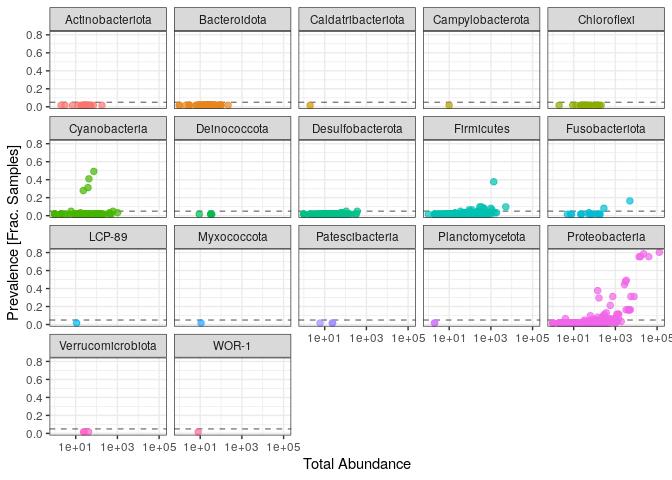
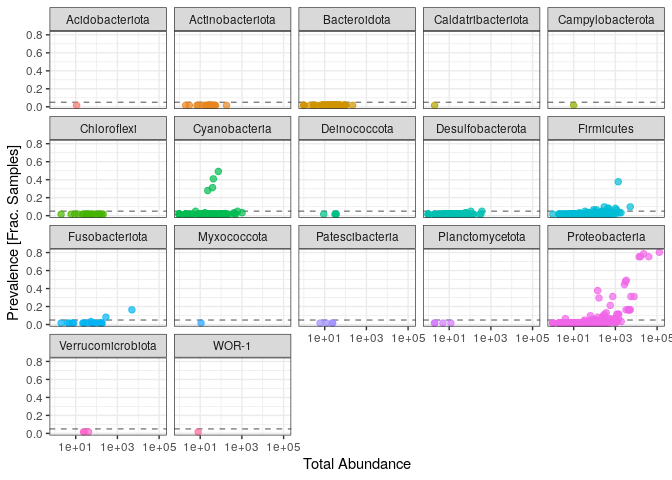
final

diff --git a/CC3r.md b/CC3r.md
@@ -540,7 +540,7 @@ head(taxa.print)
     ## [2,] "Vibrionaceae" "Vibrio"
     ## [3,] "Vibrionaceae" NA      
     ## [4,] "Vibrionaceae" "Vibrio"
-    ## [5,] "Vibrionaceae" NA      
+    ## [5,] "Vibrionaceae" "Vibrio"
     ## [6,] "Vibrionaceae" "Vibrio"
 
 # Handoff to phyloseq
@@ -889,7 +889,7 @@ plot_richness(ps, x="Samples", measures=c("Shannon", "Simpson"), color="code_nam
 
 #### Les echantillons sont plutot regroupés, neanmoins ceux provenant des poissons sont légèrement a part des autres. Les populations bactériennes sont pour la plupart communes mais varient légrement pour les poissons.
 
-#### L’analyse avec les différents paramtre (o2, profondeur, température, pH) ne révle rien de représentatif.
+#### L’analyse avec les différents paramtre (o2, profondeur, température, pH) ne révèle rien de représentatif.
 
 ``` r
 plot_richness(ps, x="code_name", measures=c("Shannon", "Simpson"), color="Samples", shape="Temp")
@@ -907,7 +907,7 @@ plot_ordination(ps.prop, ord.jac.bray, color="Samples", title="Bray Curtis PCoA:
 
 ![](CC3r_files/figure-gfm/unnamed-chunk-30-1.png)<!-- -->
 
-#### Les echantillons provenant des poissons sont regroupés entre eux. Ceux provenant de la colonne d’eau et des sédiments sont entre eux et formes 2 clusters distincts.
+#### Les échantillons provenant des poissons sont regroupés entre eux. Ceux provenant de la colonne d’eau et des sédiments sont entre eux et formes 2 clusters distincts.
 
 ``` r
 ps.prop2 <- transform_sample_counts(ps, function(otu) otu/sum(otu))
@@ -917,7 +917,7 @@ plot_ordination(ps.prop2, ord.bray.bray2, color="Localisation", title="Bray Curt
 
 ![](CC3r_files/figure-gfm/unnamed-chunk-31-1.png)<!-- -->
 
-#### La localisation d’echantillonage ne semble par etre un paramètre influcencant les populations.
+#### La localisation d’échantillonage ne semble par etre un paramètre influcencant les populations.
 
 ``` r
 ps.prop2 <- transform_sample_counts(ps, function(otu) otu/sum(otu))
@@ -927,7 +927,7 @@ plot_ordination(ps.prop2, ord.bray.bray2, color="Oxygen", title="Bray Curtis PCo
 
 ![](CC3r_files/figure-gfm/unnamed-chunk-32-1.png)<!-- -->
 
-#### Le taux d’oxygene ne semble par etre un paramètre influcencant les populations. Neamoins un possible regroupement autour de 4% d’o2 dissout est repérable.
+#### Le taux d’oxygene ne semble par etre un paramètre influcencant les populations. Néamoins un possible regroupement autour de 4% d’o2 dissout est repérable.
 
 ``` r
 ps.prop3 <- transform_sample_counts(ps, function(otu) otu/sum(otu))
@@ -941,7 +941,7 @@ plot_ordination(ps.prop3, ord.bray.bray3, color="Samples", title="Bray Curtis PC
 
 ![](CC3r_files/figure-gfm/unnamed-chunk-33-1.png)<!-- -->
 
-#### Echelle de temperature trop grande, interprétation avec \> et \< a 7 degré.
+#### Echelle de température trop grande, interprétation avec \> et \< a 7 degré à la suite.
 
 ``` r
 ps.prop4 <- transform_sample_counts(ps, function(otu) otu/sum(otu))
@@ -951,7 +951,7 @@ plot_ordination(ps.prop4, ord.bray.bray4, color="Temp", title="Bray Curtis PCoA:
 
 ![](CC3r_files/figure-gfm/unnamed-chunk-34-1.png)<!-- -->
 
-#### Les echantillons de temperatures inconnues se regreoupe avec ceux \<7. La variation de plus ou moins 7 degré ne semble pas avoir d’impact.
+#### Les échantillons de températures inconnues se regroupent avec ceux \<7. La variation de plus ou moins 7 degré ne semble pas avoir d’impact.
 
 ``` r
 ps.prop5 <- transform_sample_counts(ps, function(otu) otu/sum(otu))
@@ -993,7 +993,7 @@ plot_bar(ps.top20, x="pH", fill="Family") + facet_wrap(~Samples, scales="free_x"
 
 ![](CC3r_files/figure-gfm/unnamed-chunk-38-1.png)<!-- -->
 
-#### les pH extrêmes sembles inhibiter les croissances bactériennes, avec les meilleures abondance a pH 9.55-9.56.
+#### les pH extrêmes sembles inhibiter les croissances bactériennes, avec les meilleures abondances a pH 9.55-9.56.
 
 ``` r
 top20 <- names(sort(taxa_sums(ps), decreasing=TRUE))[1:20]
@@ -1015,7 +1015,7 @@ plot_bar(ps.top20, x="Oxygen", fill="Family") + facet_wrap(~Samples, scales="fre
 
 ![](CC3r_files/figure-gfm/unnamed-chunk-40-1.png)<!-- -->
 
-#### Les abondances sembles legrement plus fortes avec un taux d’oxygne de 4-4.1.
+#### Les abondances sembles légèrement plus fortes avec un taux d’oxygne de 4-4.1.
 
 ``` r
 top20 <- names(sort(taxa_sums(ps), decreasing=TRUE))[1:20]
@@ -1026,7 +1026,7 @@ plot_bar(ps.top20, x="Profondeur", fill="Family") + facet_wrap(~Samples, scales=
 
 ![](CC3r_files/figure-gfm/unnamed-chunk-41-1.png)<!-- -->
 
-#### pour les echantillons de la colonne d’eau et le sédiment, les abondances sont les memes en fonction de la profondeur, neanmoins il y a une variation de composition avec une présence de Peptostreptococcaceae de 0-1m de pronfondeur dans le sédiment. Dans la colonne d’eau présence d’Aeormonadaceae de 0-1 mètre de pronfeur, et plus grande abondance de Leptotrichiaceae a 7-10 mtre. Chez les poissons plus forte abondance à 7-10 mtre de profondeur et présence de Streptococcaceae.
+#### Pour les échantillons de la colonne d’eau et le sédiment, les abondances sont les memes en fonction de la profondeur, néanmoins il y a une variation de composition avec une présence de Peptostreptococcaceae de 0-1m de profondeur dans le sédiment. Dans la colonne d’eau présence d’Aeormonadaceae de 0-1 mètre de pronfeur, et plus grande abondance de Leptotrichiaceae a 7-10 mtre. Chez les poissons plus forte abondance à 7-10 mètre de profondeur et présence de Streptococcaceae.
 
 ``` r
 top20 <- names(sort(taxa_sums(ps), decreasing=TRUE))[1:20]
@@ -1045,7 +1045,7 @@ plot_bar(ps.top20, x="Localisation", fill="Family") + facet_wrap(~Samples, scale
 
 #### L’alpha et la Beta diversité ne sont réellement influcencés que par le type d’échantillon: poisson, eau ou sédiment. Avec un regroupement précis des echantillon fish et une disperssion groupé de ceux d’eaux et sédiments. Aucun relevé représentatif d’influence du pH, de l’oxygne, de la température ou de la profondeur.
 
-#### Possible influence sur l’oxygène, du pH et de la température sur les abondances, représentant probablement des conditions de développement favorable pour les procaryotes étudiés.
+#### Possible influence sur l’oxygène, du pH et de la température sur les abondances, ainsi que la diversité pour certains, représentant probablement des conditions de développement favorable pour les procaryotes étudiés.
 
 #### Les Vibrio sont majoritaires en toutes conditions. Les plus grandes abondances de microorganismes sont ceux echantillonés dans les poissons, cela peut s’expliquer par l’intéraction des bactéries avec l’organisme hote, et notamment par la présence de ces bactéries dans le système digestif des poissons. Les vibrio sont en effet une famille de bastéries typiques de l’eaux de mer, des estuaires et des intestins des animaux marins. Ceci explique donc leurs présence dans nos echantillons, car ce sont bien des lacs salés qui ont ete analysés.
 
@@ -1073,20 +1073,20 @@ plyr::ddply(prevdf, "Phylum", function(df1){cbind(mean(df1$Prevalence),sum(df1$P
 ```
 
     ##                Phylum        1    2
-    ## 1    Actinobacteriota 1.000000   18
-    ## 2        Bacteroidota 1.000000   84
-    ## 3  Caldatribacteriota 1.000000    1
-    ## 4    Campylobacterota 1.000000    1
-    ## 5         Chloroflexi 1.000000   18
-    ## 6       Cyanobacteria 1.940000  194
-    ## 7        Deinococcota 1.000000    5
-    ## 8    Desulfobacterota 1.040541  154
-    ## 9          Firmicutes 1.281346  419
-    ## 10     Fusobacteriota 1.823529   31
-    ## 11             LCP-89 1.000000    1
+    ## 1     Acidobacteriota 1.000000    1
+    ## 2    Actinobacteriota 1.000000   18
+    ## 3        Bacteroidota 1.000000   85
+    ## 4  Caldatribacteriota 1.000000    1
+    ## 5    Campylobacterota 1.000000    1
+    ## 6         Chloroflexi 1.000000   18
+    ## 7       Cyanobacteria 1.921569  196
+    ## 8        Deinococcota 1.000000    5
+    ## 9    Desulfobacterota 1.041667  150
+    ## 10         Firmicutes 1.269113  415
+    ## 11     Fusobacteriota 1.736842   33
     ## 12        Myxococcota 1.000000    1
-    ## 13    Patescibacteria 1.000000    3
-    ## 14    Planctomycetota 1.000000    2
+    ## 13    Patescibacteria 1.000000    4
+    ## 14    Planctomycetota 1.000000    4
     ## 15     Proteobacteria 2.295652 1056
     ## 16  Verrucomicrobiota 1.000000    3
     ## 17              WOR-1 1.000000    1
@@ -1097,10 +1097,10 @@ ps1
 ```
 
     ## phyloseq-class experiment-level object
-    ## otu_table()   OTU Table:         [ 1190 taxa and 61 samples ]
+    ## otu_table()   OTU Table:         [ 1194 taxa and 61 samples ]
     ## sample_data() Sample Data:       [ 61 samples by 8 sample variables ]
-    ## tax_table()   Taxonomy Table:    [ 1190 taxa by 6 taxonomic ranks ]
-    ## refseq()      DNAStringSet:      [ 1190 reference sequences ]
+    ## tax_table()   Taxonomy Table:    [ 1194 taxa by 6 taxonomic ranks ]
+    ## refseq()      DNAStringSet:      [ 1194 reference sequences ]
 
 ``` r
 prevdf1 = subset(prevdf, Phylum %in% get_taxa_unique(ps1, "Phylum"))
